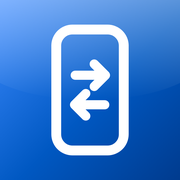
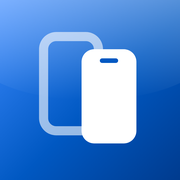
Logotip: ikki telefon varianti (web, Android, iOS)

Changed region(s): [[0.1944, 0.1111, 0.7778, 0.8889]]

diff --git a/resources/js/components/app-mark.tsx b/resources/js/components/app-mark.tsx
@@ -1,7 +1,7 @@
 import { cn } from '@/lib/utils';
 
 /**
- * Tizim logotipi: telefon ichida ikki strelka (oldi-sotdi).
+ * Tizim logotipi: ikki telefon — eskisi orqada, yangisi oldinda.
  * Manba fayl — public/logo.svg; favicon va mobil ilova ikonkalari ham shundan olingan.
  */
 export function AppMark({ className }: { className?: string }) {
